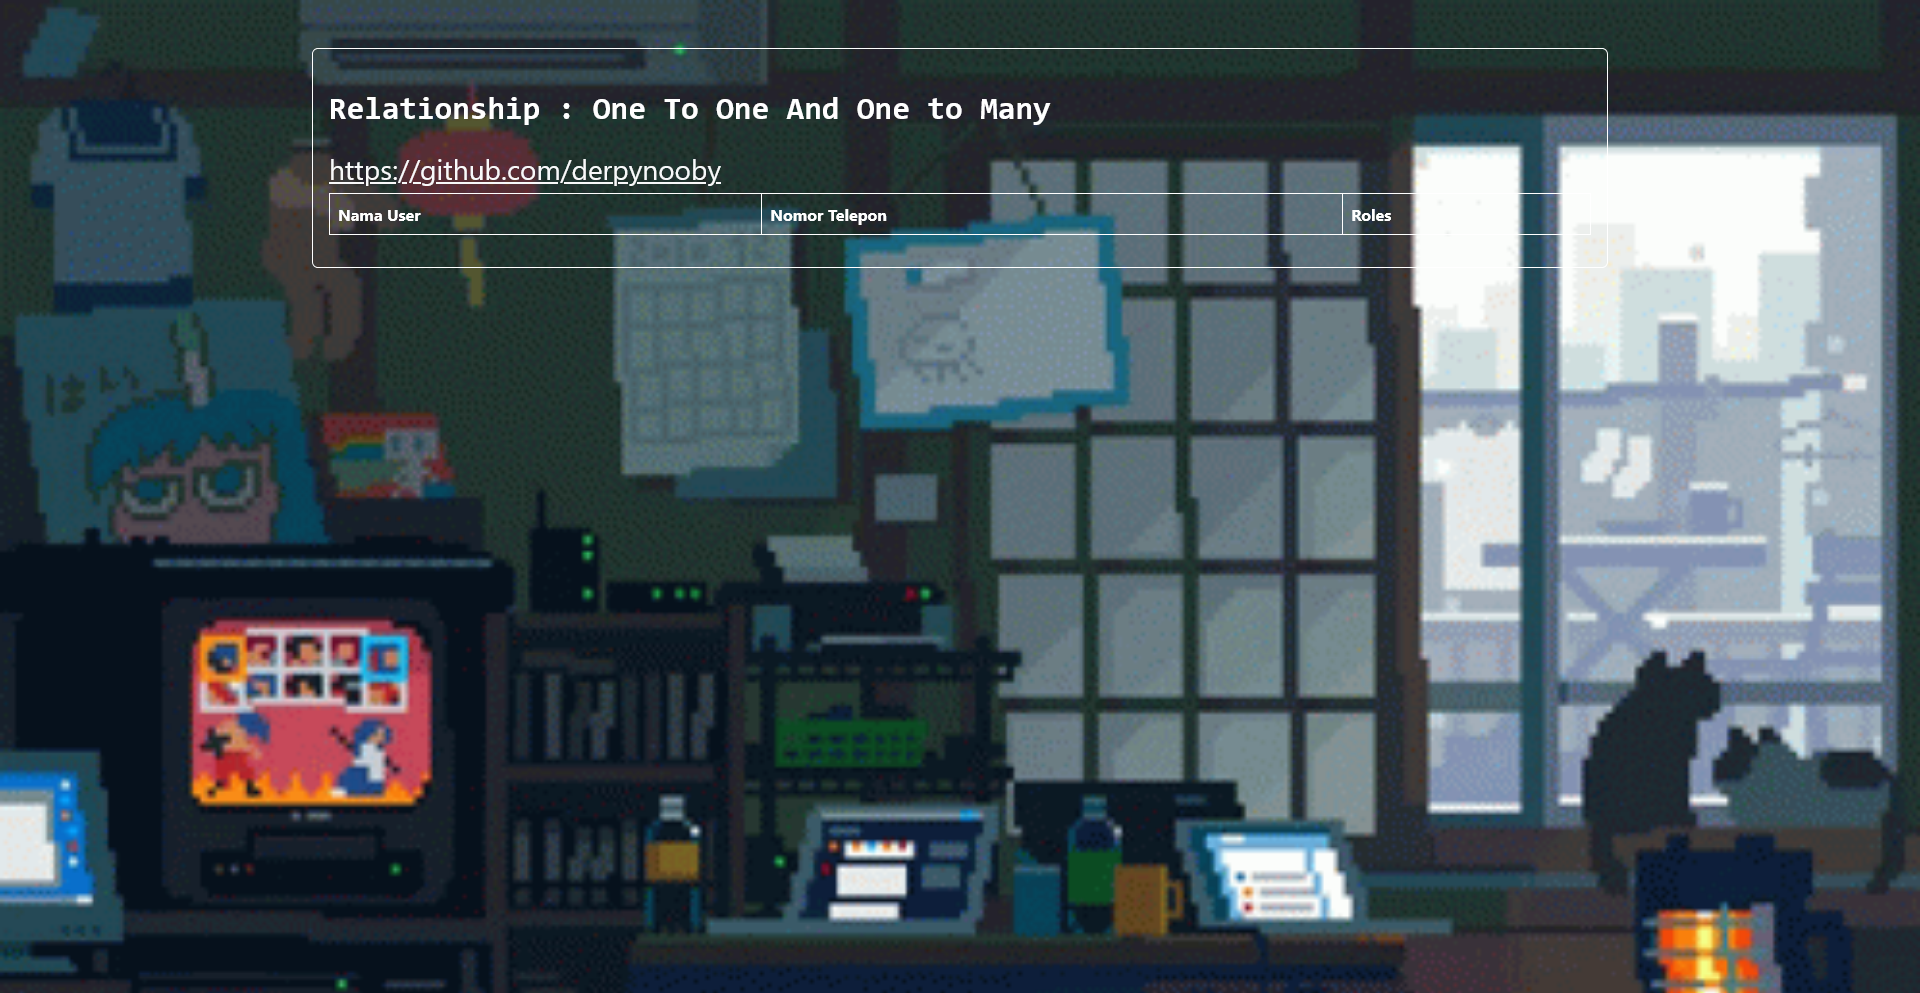
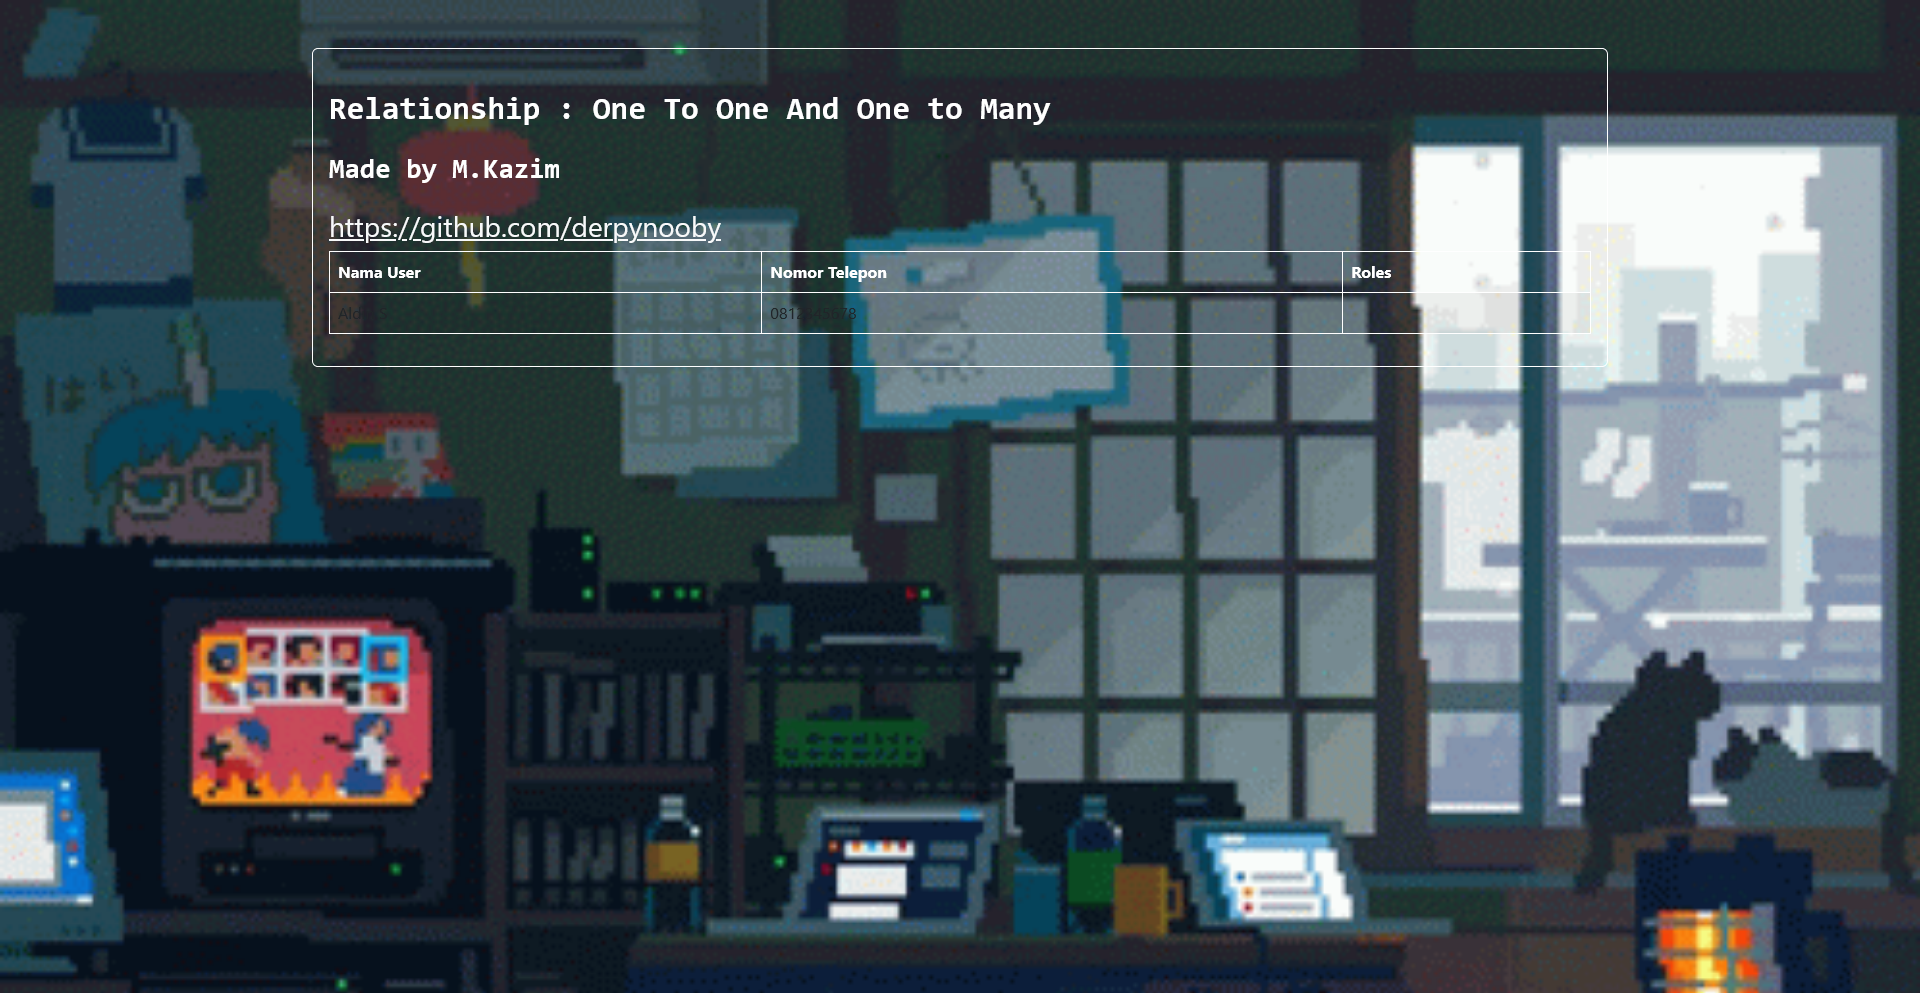
Adding originality

diff --git a/resources/views/users.blade.php b/resources/views/users.blade.php
@@ -23,10 +23,12 @@
             <div class="card-body">
                 <!-- Card body container -->
                 <h2 class="text-start fw-bold font-monospace text-white my-4">Relationship : One To One And One to Many</h2>
+                <h3 class="text-start fw-bold font-monospace text-white my-4">Made by M.Kazim</h3>
+
                 <!-- Main heading with styling -->
                 <h3 class="text-start"><a class="link-light" href="https://github.com/derpynooby">https://github.com/derpynooby</a></h3>
                 <!-- Subheading with GitHub link -->
-                <table class="table table-bordered border-white table-striped text-white">
+                <table class="table table-bordered border-white table-striped text-white text-light">
                     <!-- Table with Bootstrap styling -->
                     <thead>
                         <!-- Table header section -->
